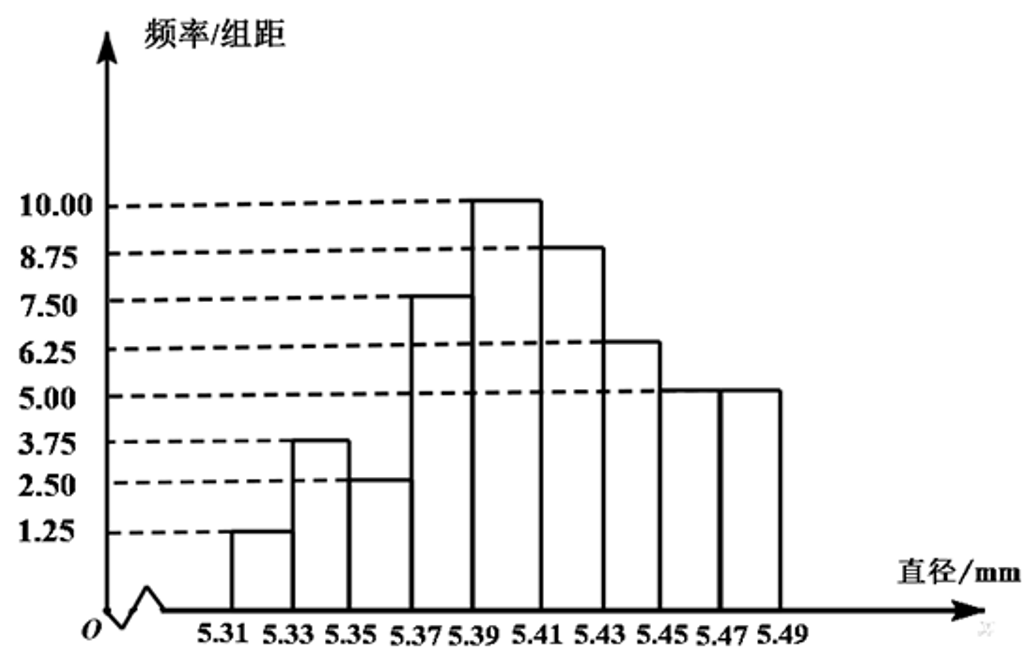
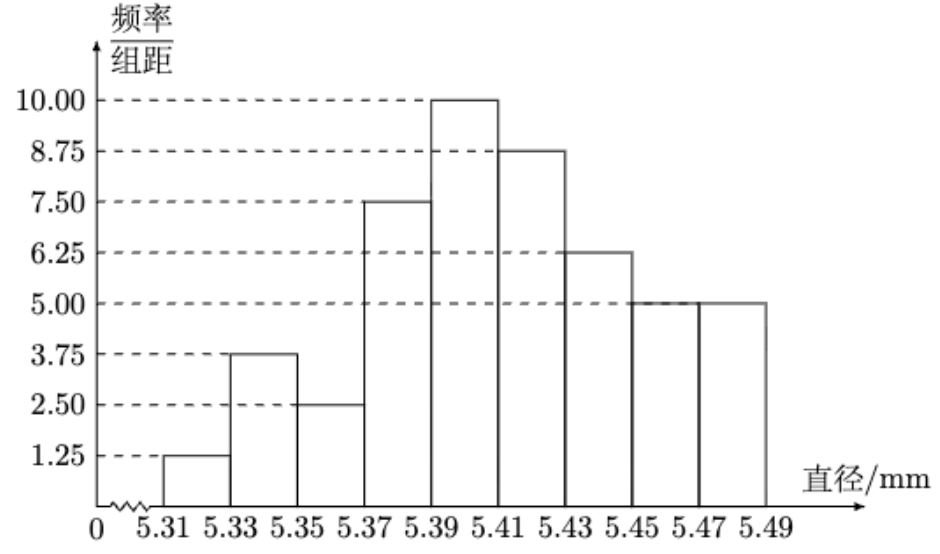
试调整

Changed region(s): [[0.0, 0.0, 1.0, 0.9819]]

diff --git a/高考题/2020北京卷数学_空白卷.tex b/高考题/2020北京卷数学_空白卷.tex
@@ -52,7 +52,17 @@
 \newpage
 \item 为满足人民对美好生活的向往，环保部门要求企业加强污水治理，排放未达标的企业要限期整改，设企业的污水排放量 $W$ 与时间 $t$ 的关系为 $W=f(t)$，用 $\dfrac{f(t_1)-f(t_2)}{t_2-t_1}$ 的大小评价在 $[t_1,t_2]$ 这段时间内企业污水治理能力的强弱. 已知整改期内，甲、乙两企业的污水排放量与时间的关系如下图所示.
 \begin{tightcenter}\includegraphics[width=9.5cm]{figures/2020_bj_q15.png}\end{tightcenter}
-给出下列四个结论：①在 $[t_1,t_2]$ 这段时间内，甲企业的污水治理能力比乙企业强；②在 $t_2$ 时刻，甲企业的污水治理能力比乙企业强；③在 $t_3$ 时刻，甲、乙两企业的污水排放都已达标；④甲企业在 $[t_1,t_2]$，$[t_2,t_3]$，$[t_3,t_4]$ 这三段时间中，在 $[t_2,t_3]$ 的污水治理能力最强. 其中所有正确结论的序号是\blank.
+给出下列四个结论：
+
+①在 $[t_1,t_2]$ 这段时间内，甲企业的污水治理能力比乙企业强；
+
+②在 $t_2$ 时刻，甲企业的污水治理能力比乙企业强；
+
+③在 $t_3$ 时刻，甲、乙两企业的污水排放都已达标；
+
+④甲企业在 $[t_1,t_2]$，$[t_2,t_3]$，$[t_3,t_4]$ 这三段时间中，在 $[t_2,t_3]$ 的污水治理能力最强. 
+
+其中所有正确结论的序号是\blank.
 \end{examquestions}
 
 \examsection{三、解答题：本题共6小题，共85分。解答应写出文字说明、证明过程或演算步骤。}
@@ -62,9 +72,9 @@
 如图，在正方体 $ABCD-A_1B_1C_1D_1$ 中，$E$ 为 $BB_1$ 的中点.
 
 \noindent\begin{minipage}[t]{0.64\linewidth}
-（1）求证：$BC_1\parallel$ 平面 $AD_1E$；
+\subq{（1）}{求证：$BC_1\parallel$ 平面 $AD_1E$；}
 
-（2）求直线 $AA_1$ 与平面 $AD_1E$ 所成角的正弦值.
+\subq{（2）}{求直线 $AA_1$ 与平面 $AD_1E$ 所成角的正弦值.}
 \end{minipage}\hfill
 \begin{minipage}[t]{0.30\linewidth}
 \vspace{-1.0em}\centering\includegraphics[width=\linewidth]{figures/2020_bj_q16.png}
@@ -77,9 +87,9 @@
 
 （2）$\sin C$ 和 $\triangle ABC$ 的面积.
 
-条件①：$c=7$，$\cos A=-\dfrac17$；
+条件①：$c=7$，$\cos A=-\dfrac17$；条件②：$\cos A=\dfrac18$，$\cos B=\dfrac9{16}$.
 
-条件②：$\cos A=\dfrac18$，$\cos B=\dfrac9{16}$.
+\newpage
 \item（14分）
 
 某校为举办甲、乙两项不同活动，分别设计了相应的活动方案：方案一、方案二. 为了了解该校学生对活动方案是否支持，对学生进行简单随机抽样，获得数据如下表：
@@ -95,38 +105,35 @@
 \end{tightcenter}
 假设所有学生对活动方案是否支持相互独立.
 
-（1）分别估计该校男生支持方案一的概率、该校女生支持方案一的概率；
+\subq{（1）}{分别估计该校男生支持方案一的概率、该校女生支持方案一的概率；}
 
-（2）从该校全体男生中随机抽取 $2$ 人，全体女生中随机抽取 $1$ 人，估计这 $3$ 人中恰有 $2$ 人支持方案一的概率；
+\subq{（2）}{从该校全体男生中随机抽取 $2$ 人，全体女生中随机抽取 $1$ 人，估计这 $3$ 人中恰有 $2$ 人支持方案一的概率；}
 
-（3）将该校学生支持方案二的概率估计值记为 $p_0$. 假设该校一年级有 $500$ 名男生和 $300$ 名女生，除一年级外其他年级学生支持方案二的概率估计值记为 $p_1$，试比较 $p_0$ 与 $p_1$ 的大小.（结论不要求证明）
-\vspace{-2.4em}
+\subq{（3）}{将该校学生支持方案二的概率估计值记为 $p_0$. 假设该校一年级有 $500$ 名男生和 $300$ 名女生，除一年级外其他年级学生支持方案二的概率估计值记为 $p_1$，试比较 $p_0$ 与 $p_1$ 的大小.（结论不要求证明）}
 \item（15分）
 
 已知函数 $f(x)=12-x^2$.
 
-（1）求曲线 $y=f(x)$ 的斜率等于 $-2$ 的切线方程；
+\subq{（1）}{求曲线 $y=f(x)$ 的斜率等于 $-2$ 的切线方程；}
 
-（2）设曲线 $y=f(x)$ 在点 $(t,f(t))$ 处的切线与坐标轴围成的三角形的面积为 $S(t)$，求 $S(t)$ 的最小值.
-\vspace{-2.4em}
+\subq{（2）}{设曲线 $y=f(x)$ 在点 $(t,f(t))$ 处的切线与坐标轴围成的三角形的面积为 $S(t)$，求 $S(t)$ 的最小值.}
 \item（15分）
 
 已知椭圆 $C:\dfrac{x^2}{a^2}+\dfrac{y^2}{b^2}=1$ 过点 $A(-2,-1)$，且 $a=2b$.
 
-（1）求椭圆 $C$ 的方程；
+\subq{（1）}{求椭圆 $C$ 的方程；}
 
-（2）过点 $B(-4,0)$ 的直线 $l$ 交椭圆 $C$ 于点 $M$，$N$，直线 $MA$，$NA$ 分别交直线 $x=-4$ 于点 $P$，$Q$，求 $\dfrac{|PB|}{|BQ|}$ 的值.
+\subq{（2）}{过点 $B(-4,0)$ 的直线 $l$ 交椭圆 $C$ 于点 $M$，$N$，直线 $MA$，$NA$ 分别交直线 $x=-4$ 于点 $P$，$Q$，求 $\dfrac{|PB|}{|BQ|}$ 的值.}
 
-\vspace{-2.4em}
 \item（15分）
 
 已知 $\{a_n\}$ 是无穷数列，给出两个性质：①对于 $\{a_n\}$ 中任意两项 $a_i,a_j(i>j)$，在 $\{a_n\}$ 中都存在一项 $a_m$，使得 $\dfrac{a_i^2}{a_j}=a_m$；②对于 $\{a_n\}$ 中任意一项 $a_n(n\geq3)$，在 $\{a_n\}$ 中都存在两项 $a_k,a_l(k>l)$，使得 $a_n=\dfrac{a_k^2}{a_l}$.
 
-（1）若 $a_n=n(n=1,2,\cdots)$，判断数列 $\{a_n\}$ 是否满足性质①，说明理由；
+\subq{（1）}{若 $a_n=n(n=1,2,\cdots)$，判断数列 $\{a_n\}$ 是否满足性质①，说明理由；}
 
-（2）若 $a_n=2^{n-1}(n=1,2,\cdots)$，判断数列 $\{a_n\}$ 是否同时满足性质①、②，说明理由；
+\subq{（2）}{若 $a_n=2^{n-1}(n=1,2,\cdots)$，判断数列 $\{a_n\}$ 是否同时满足性质①、②，说明理由；}
 
-（3）若 $\{a_n\}$ 是递增数列，且同时满足性质①和性质②，证明：$\{a_n\}$ 为等比数列.
+\subq{（3）}{若 $\{a_n\}$ 是递增数列，且同时满足性质①和性质②，证明：$\{a_n\}$ 为等比数列.}
 \end{examanswers}
 
 \end{document}

diff --git a/高考题/2020天津卷数学_空白卷.tex b/高考题/2020天津卷数学_空白卷.tex
@@ -68,54 +68,54 @@
 
 在 $\triangle ABC$ 中，角 $A,B,C$ 所对的边分别为 $a,b,c$。已知 $a=2\sqrt2$，$b=5$，$c=\sqrt{13}$。
 
-（I）求角 $C$ 的大小；
+（1）求角 $C$ 的大小；
 
-（II）求 $\sin A$ 的值；
+（2）求 $\sin A$ 的值；
 
-（III）求 $\sin\left(2A+\dfrac\pi4\right)$ 的值。
+（3）求 $\sin\left(2A+\dfrac\pi4\right)$ 的值。
 
 \item（15分）
 
 如图，在三棱柱 $ABC-A_1B_1C_1$ 中，$CC_1\perp$ 平面 $ABC$，$AC\perp BC$，$AC=BC=2$，$CC_1=3$，点 $D,E$ 分别在棱 $AA_1$ 和棱 $CC_1$ 上，且 $AD=1$，$CE=2$，$M$ 为棱 $A_1B_1$ 的中点。
 
-\noindent\begin{minipage}[t]{0.64\linewidth}
-（I）求证：$C_1M\perp B_1D$；
+\begin{minipage}[t]{0.64\linewidth}
+（1）求证：$C_1M\perp B_1D$；
 
-（II）求二面角 $B-B_1E-D$ 的正弦值；
+（2）求二面角 $B-B_1E-D$ 的正弦值；
 
-（III）求直线 $AB$ 与平面 $DB_1E$ 所成角的正弦值。
+（3）求直线 $AB$ 与平面 $DB_1E$ 所成角的正弦值。
 \end{minipage}\hfill
-\begin{minipage}[t]{0.24\linewidth}\vspace{-1.4em}\centering\includegraphics[width=\linewidth]{figures/2020_tj_q17.png}\end{minipage}
+\begin{minipage}[t]{0.27\linewidth}\vspace{-1em}\centering\includegraphics[width=\linewidth]{figures/2020_tj_q17.png}\end{minipage}
 
 \item（15分）
 
 已知椭圆 $\dfrac{x^2}{a^2}+\dfrac{y^2}{b^2}=1(a>b>0)$ 的一个顶点为 $A(0,-3)$，右焦点为 $F$，且 $|OA|=|OF|$，其中 $O$ 为原点。
 
-（I）求椭圆方程；
+（1）求椭圆方程；
 
-（II）已知点 $C$ 满足 $3\overrightarrow{OC}=\overrightarrow{OF}$，点 $B$ 在椭圆上（$B$ 异于椭圆的顶点），直线 $AB$ 与以 $C$ 为圆心的圆相切于点 $P$，且 $P$ 为线段 $AB$ 的中点，求直线 $AB$ 的方程。
+（2）已知点 $C$ 满足 $3\overrightarrow{OC}=\overrightarrow{OF}$，点 $B$ 在椭圆上（$B$ 异于椭圆的顶点），直线 $AB$ 与以 $C$ 为圆心的圆相切于点 $P$，且 $P$ 为线段 $AB$ 的中点，求直线 $AB$ 的方程。
 
 \item（15分）
 
 已知 $\{a_n\}$ 为等差数列，$\{b_n\}$ 为等比数列，$a_1=b_1=1$，$a_5=5(a_4-a_3)$，$b_5=4(b_4-b_3)$。
 
-（I）求 $\{a_n\}$ 和 $\{b_n\}$ 的通项公式；
+（1）求 $\{a_n\}$ 和 $\{b_n\}$ 的通项公式；
 
-（II）记 $\{a_n\}$ 的前 $n$ 项和为 $S_n$，求证：$S_nS_{n+2}<S_{n+1}^2(n\in\mathbb N^*)$；
+（2）记 $\{a_n\}$ 的前 $n$ 项和为 $S_n$，求证：$S_nS_{n+2}<S_{n+1}^2(n\in\mathbb N^*)$；
 
-（III）对任意正整数 $n$，设 $c_n=\linsys{\dfrac{(3a_n-2)b_n}{a_na_{n+2}},\quad n\text{为奇数},\\\dfrac{a_{n-1}}{b_{n+1}},\quad n\text{为偶数}}$，求 $\{c_n\}$ 的前 $2n$ 项和。
+（3）对任意正整数 $n$，设 $c_n=\linsys{\dfrac{(3a_n-2)b_n}{a_na_{n+2}},\quad n\text{为奇数},\\\dfrac{a_{n-1}}{b_{n+1}},\quad n\text{为偶数}}$，求 $\{c_n\}$ 的前 $2n$ 项和。
 
 \item（16分）
 
 已知函数 $f(x)=x^3+k\ln x(k\in\mathbb R)$，$f'(x)$ 为 $f(x)$ 的导函数。
 
-（I）当 $k=6$ 时，
+（1）当 $k=6$ 时，
 
 （i）求曲线 $y=f(x)$ 在点 $(1,f(1))$ 处的切线方程；
 
 （ii）求函数 $g(x)=f(x)-f'(x)+\dfrac9x$ 的单调区间和极值；
 
-（II）当 $k>-3$ 时，求证：对任意的 $x_1,x_2\in[1,+\infty)$，且 $x_1>x_2$，有 $\dfrac{f'(x_1)+f'(x_2)}2>\dfrac{f(x_1)-f(x_2)}{x_1-x_2}$。
+（2）当 $k>-3$ 时，求证：对任意的 $x_1,x_2\in[1,+\infty)$，且 $x_1>x_2$，有 $\dfrac{f'(x_1)+f'(x_2)}2>\dfrac{f(x_1)-f(x_2)}{x_1-x_2}$。
 
 \end{examanswers}
 

diff --git a/高考题/2023天津卷数学_空白卷.tex b/高考题/2023天津卷数学_空白卷.tex
@@ -101,9 +101,9 @@
 
 （2）已知 $\{b_n\}$ 为等比数列，对于任意 $k\in\mathbb N^*$，若 $2^{k-1}\leq n\leq2^k-1$，则 $b_k<a_n<b_{k+1}$，
 
-（I）当 $k\geq2$ 时，求证：$2^k-1<b_k<2^k+1$；
+（1）当 $k\geq2$ 时，求证：$2^k-1<b_k<2^k+1$；
 
-（II）求 $\{b_n\}$ 的通项公式及其前 $n$ 项和。
+（2）求 $\{b_n\}$ 的通项公式及其前 $n$ 项和。
 
 \item（16分）
 